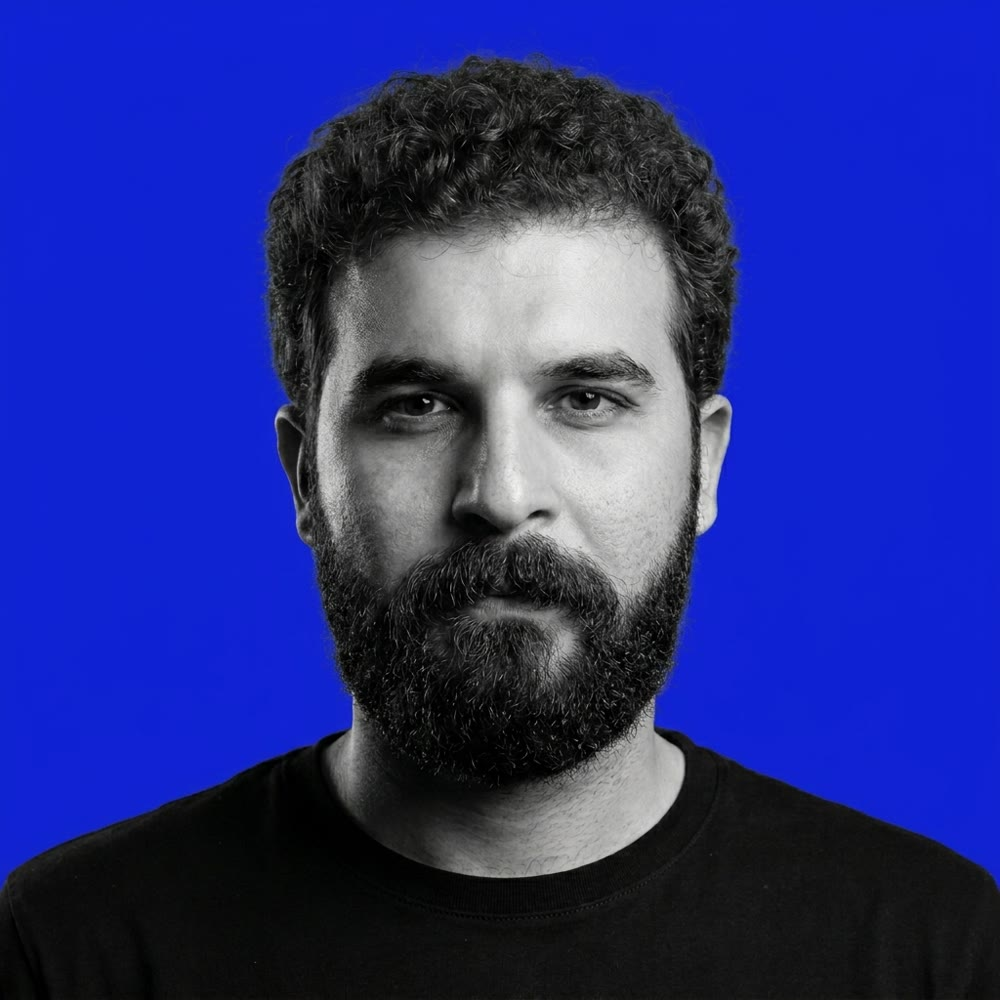
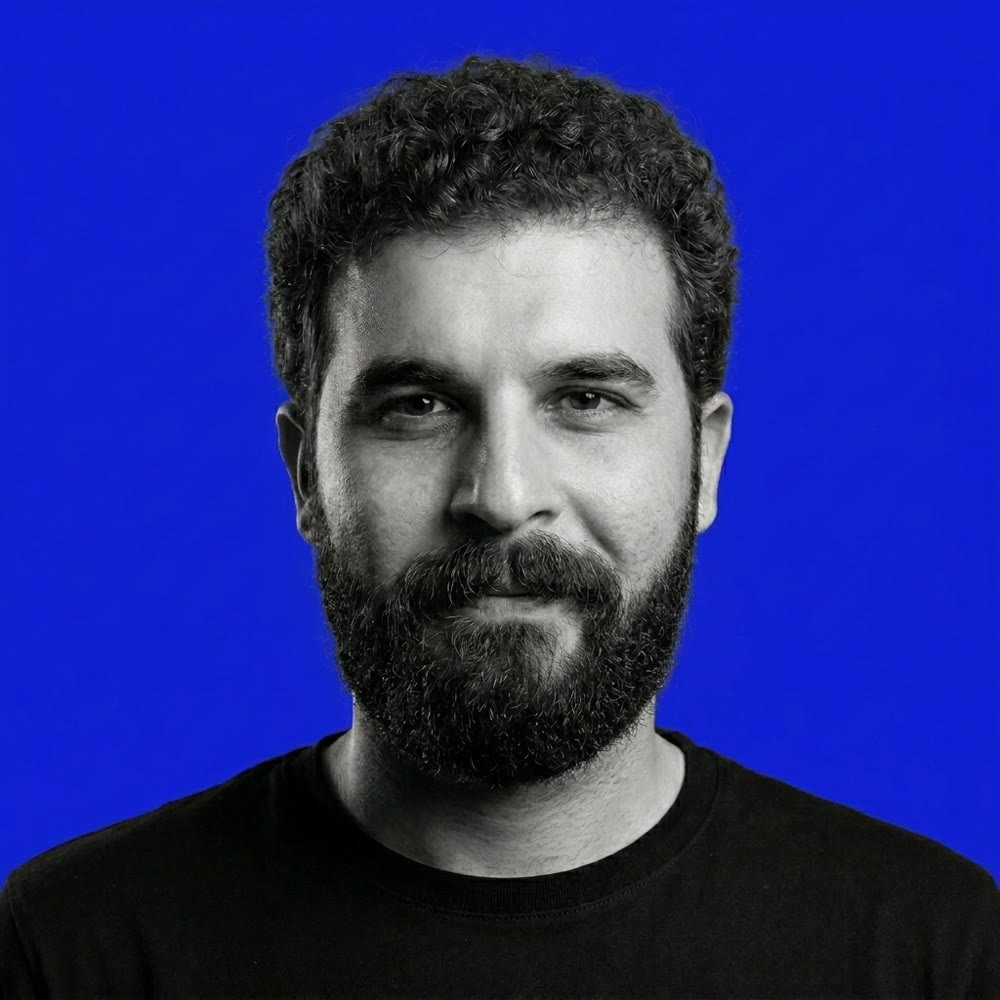
Contact: single smirk profile photo

Changed region(s): [[0.248, 0.372, 0.744, 0.775], [0.558, 0.341, 0.651, 0.434], [0.341, 0.279, 0.372, 0.341]]

diff --git a/index.html b/index.html
@@ -336,10 +336,8 @@
     #contactContent{position:absolute;inset:0;display:flex;align-items:center;justify-content:center;z-index:2;padding:0 56px;pointer-events:none}
 
     .contact-inner{display:grid;grid-template-columns:1fr 1fr;gap:80px;align-items:center;max-width:1100px;margin:0 auto}
-    .contact-photo{aspect-ratio:3/4;background:rgba(0,0,0,0.15);border-radius:4px;overflow:hidden;display:flex;align-items:center;justify-content:center;max-height:500px;position:relative}
+    .contact-photo{aspect-ratio:3/4;background:rgba(0,0,0,0.15);border-radius:4px;overflow:hidden;display:flex;align-items:center;justify-content:center;max-height:500px}
     .contact-photo img{width:100%;height:100%;object-fit:cover;display:block}
-    .contact-photo .cp-hover{position:absolute;inset:0;opacity:0;transition:opacity 0.45s cubic-bezier(0.16,1,0.3,1)}
-    .contact-photo:hover .cp-hover{opacity:1}
     .contact-photo-placeholder{display:flex;flex-direction:column;align-items:center;gap:16px}
     .contact-photo-initials{font-family:var(--font-display);font-size:80px;font-weight:800;color:rgba(0,0,0,0.2)}
     .contact-photo-label{font-family:var(--font-mono);font-size:10px;letter-spacing:.2em;text-transform:uppercase;color:rgba(0,0,0,0.3)}
@@ -1189,8 +1187,7 @@
       <div id="contactContent">
       <div class="contact-inner">
         <div class="contact-photo">
-          <img src="media/contact-photo.jpg" alt="Roozbeh Ghanbarzadeh" class="cp-base" />
-          <img src="media/contact-photo-hover.jpg" alt="" aria-hidden="true" class="cp-hover" />
+          <img src="media/contact-photo.jpg" alt="Roozbeh Ghanbarzadeh" />
         </div>
         <div class="contact-info">
           <div class="contact-pre">Let's work together</div>